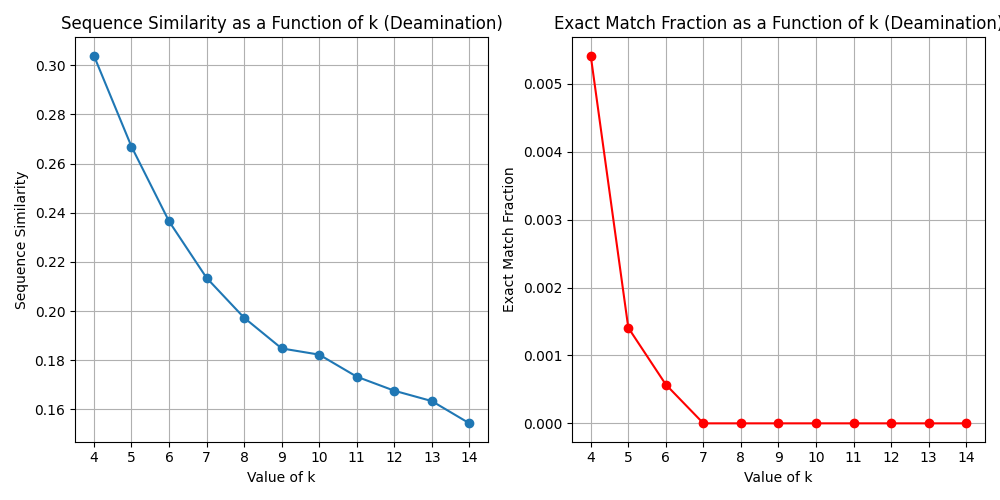
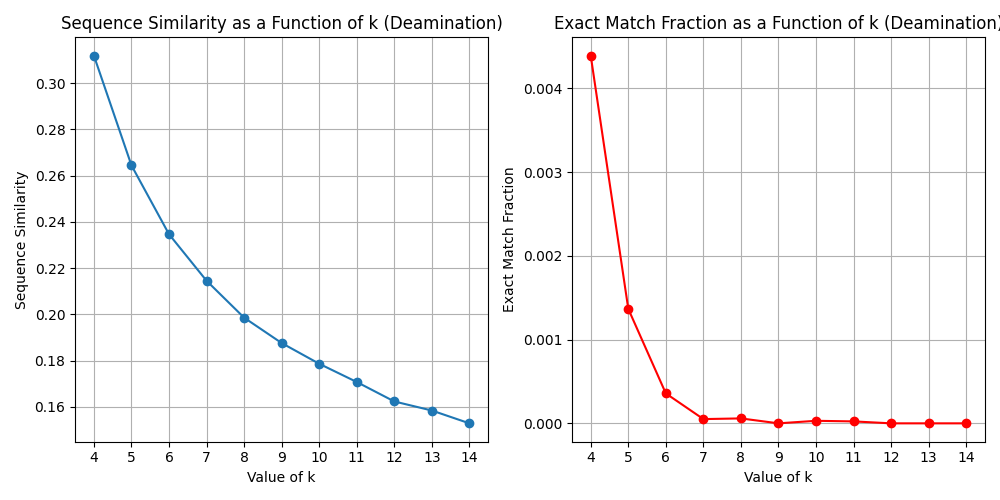
Update

diff --git a/simulations/avg_mismatch/main.py b/simulations/avg_mismatch/main.py
@@ -102,7 +102,7 @@ for k in k_values:
     w = k + 2
     minimizer_table = create_index_table(sequence, k, w)
     rymer_table = create_index_table(rymer_transform(sequence), k, w)
-    fragments = fragment_genome(sequence, 150, 0, 100)
+    fragments = fragment_genome(sequence, 150, 0, 2000)
     all_reads = []
     for fragment in fragments:
         reads_from_fragment = generate_circular_reads(fragment, 75, 1)
@@ -132,5 +132,5 @@ plt.title('Exact Match Fraction as a Function of k (Deamination)')
 plt.grid(True)
 
 plt.tight_layout()
-plt.show()
+plt.savefig("mismatch.png")
 
